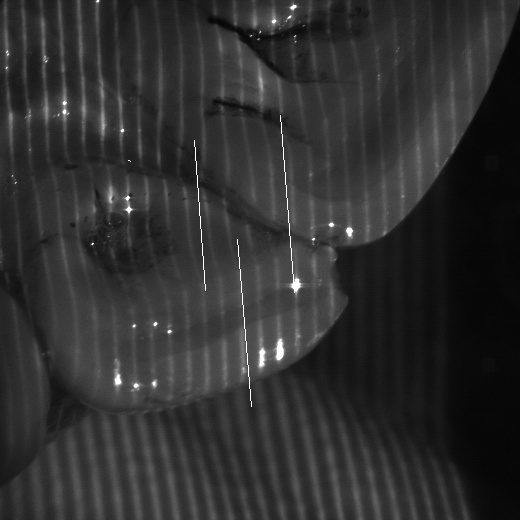
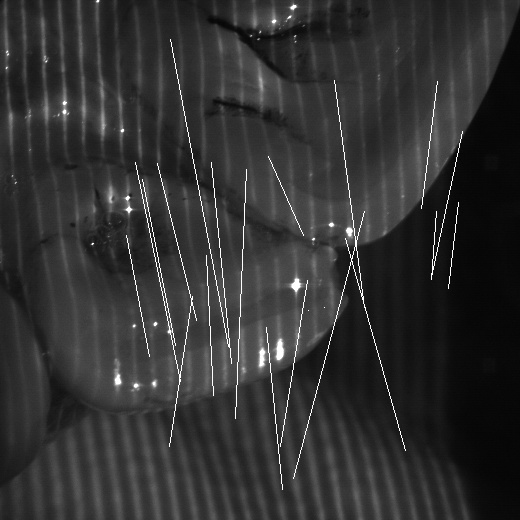
redo functionality

diff --git a/main.py b/main.py
@@ -13,6 +13,7 @@ temp_image = image.copy()  # Temporary image for showing the line preview
 color = (255, 255, 255)  # White color
 thickness = 1  # Line thickness
 lines = []  # Store the lines drawn
+undone_lines = []  # Store the undone lines for redo functionality
 
 # Global variable to store points and the flag for dragging
 points = []
@@ -20,7 +21,7 @@ dragging = False
 
 # Callback function to capture mouse events
 def draw_line(event, x, y, flags, param):
-    global points, image, temp_image, dragging, lines
+    global points, image, temp_image, dragging, lines, undone_lines
 
     if event == cv2.EVENT_LBUTTONDOWN:
         dragging = True
@@ -40,6 +41,9 @@ def draw_line(event, x, y, flags, param):
         lines.append((points[0], points[1]))  # Store the line
         cv2.line(image, points[0], points[1], color, thickness=thickness)
         cv2.imshow('image', image)  # Show the image with the final line
+        ## Also clear redo history.
+        undone_lines = [] 
+
 
 # Create a window and bind the callback function to the window
 cv2.namedWindow('image')
@@ -52,10 +56,16 @@ while True:
     k = cv2.waitKey(0)
     if k == ord('u'):  # Undo the last line drawn
         if lines:
-            lines.pop()  # Remove the last line
+            undone_lines.append(lines.pop())  # Move the last line to undone list
             image = backup_image.copy()  # Restore the previous state
             for line in lines:  # Redraw remaining lines
                 cv2.line(image, line[0], line[1], color, thickness=thickness)
+            cv2.imshow('image', image)
+    elif k == ord('r'):  # Redo the last undone line
+        if undone_lines:
+            line = undone_lines.pop()  # Get the last undone line
+            lines.append(line)  # Move it back to lines list
+            cv2.line(image, line[0], line[1], color, thickness=thickness)
             cv2.imshow('image', image)
     else:
         break
